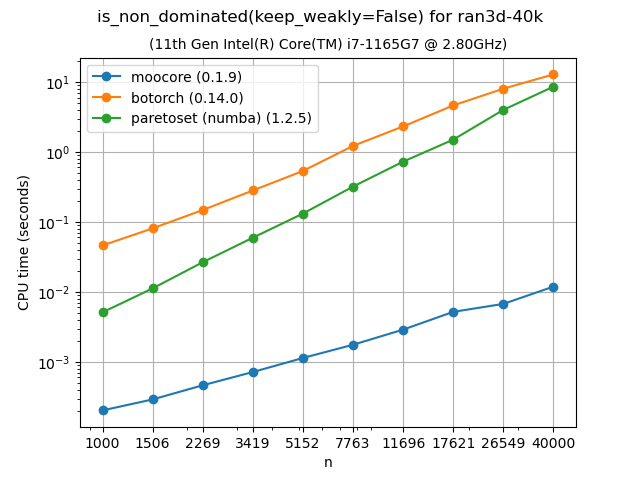
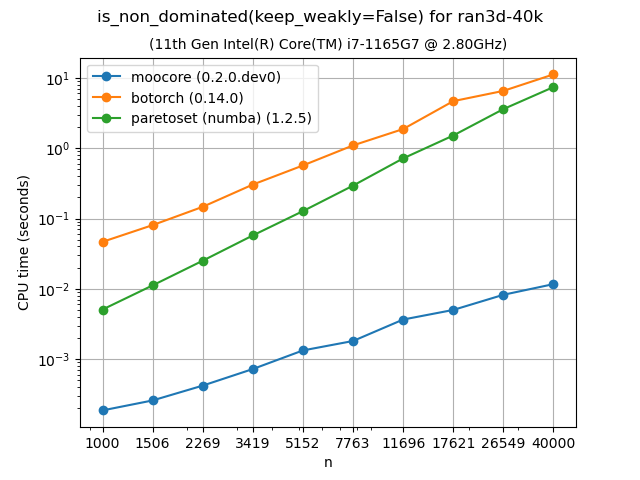
python/ Benchmark seqme and fast-pareto.
* pyproject.toml (optional-dependencies.benchmarks): Install seqme and fast-pareto.
 * benchmarks/bench_ndom.py: Benchmark seqme and fast-pareto.
 * doc/source/benchmarks.inc.rst: Update is_nondominated() benchmarks.

diff --git a/python/benchmarks/bench_ndom.py b/python/benchmarks/bench_ndom.py
@@ -5,6 +5,7 @@ This example benchmarks the hypervolume implementation in ``moocore`` against ot
 
 """
 
+import gc
 import numpy as np
 import moocore
 import matplotlib.pyplot as plt
@@ -26,6 +27,8 @@ from desdeo.tools.non_dominated_sorting import (
 from paretoset import paretoset
 
 from seqme.core.rank import is_pareto_front as seqme_is_pareto_front
+
+from fast_pareto import is_pareto_front as fast_pareto_is_pf
 
 # See https://github.com/multi-objective/testsuite/tree/main/data
 files = {
@@ -88,8 +91,9 @@ for name in names:
     )
 
     for maxrow in n:
-        values = bench(maxrow, x[:maxrow, :])
+        bench(maxrow, x[:maxrow, :])
 
+    gc.collect()
     bench.plots(file_prefix=file_prefix, title=title, log="xy")
 
 
@@ -126,13 +130,17 @@ for name in names:
             "seqme": lambda z: bool2pos(
                 seqme_is_pareto_front(-z, assume_unique_lexsorted=True)
             ),
+            "fast_pareto": lambda z: bool2pos(
+                fast_pareto_is_pf(-z, assume_unique_lexsorted=False)
+            ),
         },
         check=check_values,
     )
 
     for maxrow in n:
-        values = bench(maxrow, x[:maxrow, :])
+        bench(maxrow, x[:maxrow, :])
 
+    gc.collect()
     bench.plots(file_prefix=file_prefix, title=title, log="xy")
 
 

diff --git a/python/doc/source/benchmarks.inc.rst b/python/doc/source/benchmarks.inc.rst
@@ -1,9 +1,9 @@
 Benchmarks
 ==========
 
-The following plots compare the performance of `moocore`_, `pymoo`_, `BoTorch`_, `DESDEO`_, `paretoset`_, `Nevergrad`_ and `jMetalPy`_. Other Python packages are not included in the comparison because they are based on these packages for the functionality benchmarked, so they are **at least as slow** as them. For example `Xopt`_ and `BoFire`_ use `BoTorch`_, `pysamoo`_ is an extension of `pymoo`_, `DESDEO`_ already uses `moocore`_ for hypervolume and other quality metrics, and most of the multi-objective functionality of `DEAP`_ is shared by `pymoo`_.  We do not compare with the Bayesian optimization toolbox `trieste`_, because it is much slower than `BoTorch`_ and too slow to run the benchmarks in a reasonable time.
+The following plots compare the performance of `moocore`_, `pymoo`_, `BoTorch`_, `DESDEO`_, `paretoset`_, `Nevergrad`_, `jMetalPy`_, `seqme`_ and `fast-pareto`_.  Other Python packages are not included in the comparison because they are based on these packages for the functionality benchmarked, so they are **at least as slow** as them. For example `Xopt`_ and `BoFire`_ use `BoTorch`_, `pysamoo`_ is an extension of `pymoo`_, `DESDEO`_ already uses `moocore`_ for hypervolume and other quality metrics, and most of the multi-objective functionality of `DEAP`_ is shared by `pymoo`_.  We do not compare with the Bayesian optimization toolbox `trieste`_, because it is much slower than `BoTorch`_ and too slow to run the benchmarks in a reasonable time.
 
-Not all packages provide the same functionality. For example, `pymoo`_ does not provide the :ref:`epsilon indicator <epsilon_metric>` whereas `jMetalPy`_ does not provide the :ref:`IGD+ indicator <igd_hausdorf>`. `BoTorch`_ provides neither of them. `paretoset`_ only identifies nondominated points.
+Not all packages provide the same functionality. For example, `pymoo`_ does not provide the :ref:`epsilon indicator <epsilon_metric>` whereas `jMetalPy`_ does not provide the :ref:`IGD+ indicator <igd_hausdorf>`. `BoTorch`_ provides neither of them. `paretoset`_ and `fast-pareto`_ only identify nondominated points.
 
 The source code for the benchmarks below can be found at https://github.com/multi-objective/moocore/tree/main/python/benchmarks .
 
@@ -11,7 +11,7 @@ The source code for the benchmarks below can be found at https://github.com/mult
 Identifying nondominated points
 -------------------------------
 
-The following plots compare the speed of finding nondominated solutions, equivalent to :func:`moocore.is_nondominated`, in 2D and 3D. We test both ``keep_weakly=True`` and ``keep_weakly=False`` (the latter is not supported by `pymoo`_ nor `DESDEO`_).  The plots show that `moocore`_ is 10 times faster than `DESDEO`_ and `paretoset`_ and 100 times faster than the other packages.
+The following plots compare the speed of finding nondominated solutions, equivalent to :func:`moocore.is_nondominated`, in 2D and 3D. We test both ``keep_weakly=True`` and ``keep_weakly=False`` (the latter is only supported by `botorch`_ and `paretoset`_).  The plots show that `moocore`_ is 10 times faster than `DESDEO`_ and `paretoset`_ and 100 times faster than the other packages. `fast-pareto`_ claims to implement a :math:`O(n\log n)` algorithm for 3D, but the benchmarks below indicate a :math:`O(n^2)` complexity, similar to other packages and significantly slower than `moocore`_.
 
 |wndom_bench-test2D-200k| |wndom_bench-ran3d-40k|
 
@@ -30,7 +30,8 @@ The following plots compare the speed of finding nondominated solutions, equival
    :width: 49%
 
 For dimensions larger than 3, :func:`moocore.is_nondominated` still uses the
-naive :math:`O(m n^2)` algorithm.  Nevertheless, the plots show that `moocore`_ is still consistently faster than the other packages.
+naive :math:`O(m n^2)` algorithm.  Nevertheless, the plots show that `moocore`_
+is still consistently faster than the other packages. `fast-pareto`_ claims to be using a :math:`O(n\log^{m-2} n)` algorithm, but the benchmarks suggest that it is also using a :math:`O(m n^2)` algorithm, although slower than most other packages and almost 10 times slower than `moocore`_.
 
 |wndom_bench-sphere-4d| |wndom_bench-sphere-5d|
 
@@ -196,15 +197,17 @@ The following plots compare the speed of computing the :ref:`epsilon indicator  
 
 
 .. _moocore: https://multi-objective.github.io/moocore/python/
-.. _pymoo: https://pymoo.org/
-.. _BoTorch: https://botorch.org/
-.. _jMetalPy: https://jmetal.github.io/jMetalPy/index.html
-.. _DEAP: https://deap.readthedocs.io/en/master/
-.. _Xopt: https://xopt.xopt.org/index.html
 .. _BoFire: https://experimental-design.github.io/bofire/
-.. _pysamoo: https://anyoptimization.com/projects/pysamoo/
+.. _BoTorch: https://botorch.org/
+.. _DEAP: https://deap.readthedocs.io/en/master/
 .. _DESDEO: https://desdeo.readthedocs.io/en/latest/
-.. _trieste: https://secondmind-labs.github.io/trieste
-.. _Numba: https://numba.pydata.org/numba-doc/dev/index.html
-.. _paretoset: https://github.com/tommyod/paretoset
 .. _Nevergrad: https://facebookresearch.github.io/nevergrad/
+.. _Numba: https://numba.pydata.org/numba-doc/dev/index.html
+.. _Xopt: https://xopt.xopt.org/index.html
+.. _fast-pareto: https://github.com/nabenabe0928/fast-pareto
+.. _jMetalPy: https://jmetal.github.io/jMetalPy/index.html
+.. _paretoset: https://github.com/tommyod/paretoset
+.. _pymoo: https://pymoo.org/
+.. _pysamoo: https://anyoptimization.com/projects/pysamoo/
+.. _seqme: https://seqme.readthedocs.io
+.. _trieste: https://secondmind-labs.github.io/trieste
